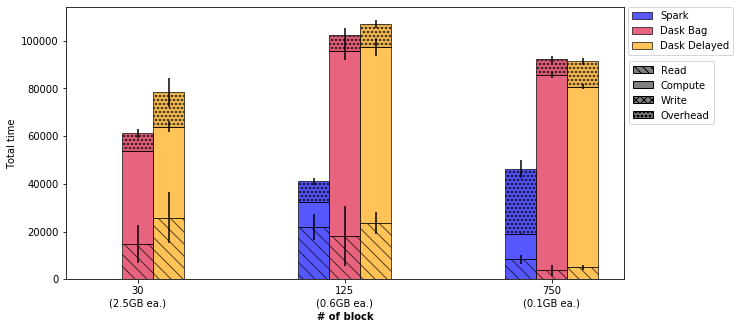
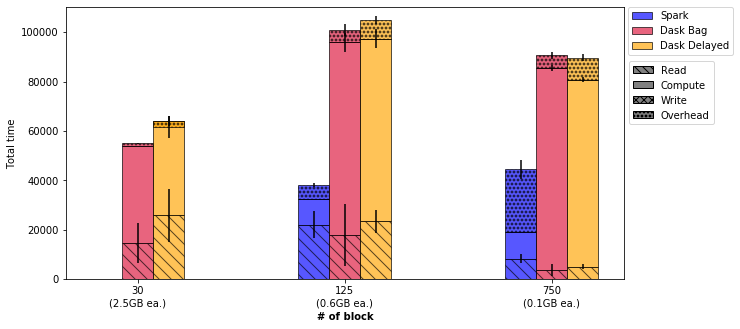
Updated figures and started working on histogram section

diff --git a/latex/paper.tex b/latex/paper.tex
@@ -648,6 +648,15 @@ computing tasks that run concurrently with data transfers.
 
 %%% HISTOGRAM %%%
 \subsection{Histogram: Number of workers}
+Figure~\ref{fig:histo_ms_worker} shows the makespan of the application for various
+amounts of workers. Spark is tremendiously faster than Dask APIs. The difference
+narrows as the number of workers increases. Between Dask APIs there is no substantial
+difference, however, Bag is slightly faster on average.
+
+From Figure~\ref{fig:histo_tt_worker} the total time spend in each function is shown.
+The computation time is significantly larger in Dask than Spark. This is potentially
+due to Python's GIL preventing Dask to parallelize the computation on multiple thread.
+Overall, the IO and overhead is comparable for all engines.
 
 \begin{figure}[!t]
     \centering
@@ -664,6 +673,7 @@ computing tasks that run concurrently with data transfers.
 \end{figure}
 
 \subsection{Histogram: Number of blocks}
+Figure~\ref{fig:histo_ms_block}
 
 \begin{figure}[!t]
     \centering
@@ -711,12 +721,12 @@ Figure~\ref{fig:bids_spark_gantt}).}
     \centering
     \begin{subfigure}[b]{\columnwidth}
         \includegraphics[clip,width=\columnwidth]{images/bids_worker.png}%
-        \caption{Histogram makespan}\label{fig:bids_ms_worker}
+        \caption{BIDS App example makespan}\label{fig:bids_ms_worker}
     \end{subfigure}
     \\
     \begin{subfigure}[b]{\columnwidth}
         \includegraphics[clip,width=\columnwidth]{images/bids_idle_worker.png}%
-        \caption{Histogram total time}\label{fig:bids_tt_worker}
+        \caption{BIDS App example total time}\label{fig:bids_tt_worker}
     \end{subfigure}
     \caption{Variation of the amount of worker, 8 threads/worker}
 \end{figure}
@@ -736,29 +746,29 @@ Bag. At the end of the participant analysis phase, Futures and Delayed has less
 overhead than Bag while Spark has way more than Dask engine. The group analysis is
 similar for all engines and APIs.
 
-\begin{figure*}[!htb]
-    \centering
-    \begin{subfigure}[b]{\columnwidth}
-        \includegraphics[clip,width=\columnwidth]{images/spark_bids_gantt.png}
-        \caption{Spark}\label{fig:bids_spark_gantt}
-    \end{subfigure}
-    \hfill
-    \begin{subfigure}[b]{\columnwidth}
-        \includegraphics[clip,width=\columnwidth]{images/bag_bids_gantt.png}%
-        \caption{Dask Bag}\label{fig:bids_dask_bag_gantt}
-    \end{subfigure}
-    \\
-    \begin{subfigure}[b]{\columnwidth}
-        \includegraphics[clip,width=\columnwidth]{images/delayed_bids_gantt.png}%
-        \caption{Dask Delayed}\label{fig:bids_dask_delayed_gantt}
-    \end{subfigure}
-    \hfill
-    \begin{subfigure}[b]{\columnwidth}
-        \includegraphics[clip,width=\columnwidth]{images/futures_bids_gantt.png}%
-        \caption{Dask Futures}\label{fig:bids_dask_futures_gantt}
-    \end{subfigure}
-    \caption{Gantt chart with 8 workers}\label{fig:bids_gantt}
-\end{figure*}
+% \begin{figure*}[!htb]
+%     \centering
+%     \begin{subfigure}[b]{\columnwidth}
+%         \includegraphics[clip,width=\columnwidth]{images/spark_bids_gantt.png}
+%         \caption{Spark}\label{fig:bids_spark_gantt}
+%     \end{subfigure}
+%     \hfill
+%     \begin{subfigure}[b]{\columnwidth}
+%         \includegraphics[clip,width=\columnwidth]{images/bag_bids_gantt.png}%
+%         \caption{Dask Bag}\label{fig:bids_dask_bag_gantt}
+%     \end{subfigure}
+%     \\
+%     \begin{subfigure}[b]{\columnwidth}
+%         \includegraphics[clip,width=\columnwidth]{images/delayed_bids_gantt.png}%
+%         \caption{Dask Delayed}\label{fig:bids_dask_delayed_gantt}
+%     \end{subfigure}
+%     \hfill
+%     \begin{subfigure}[b]{\columnwidth}
+%         \includegraphics[clip,width=\columnwidth]{images/futures_bids_gantt.png}%
+%         \caption{Dask Futures}\label{fig:bids_dask_futures_gantt}
+%     \end{subfigure}
+%     \caption{Gantt chart with 8 workers}\label{fig:bids_gantt}
+% \end{figure*}
 
 
 
